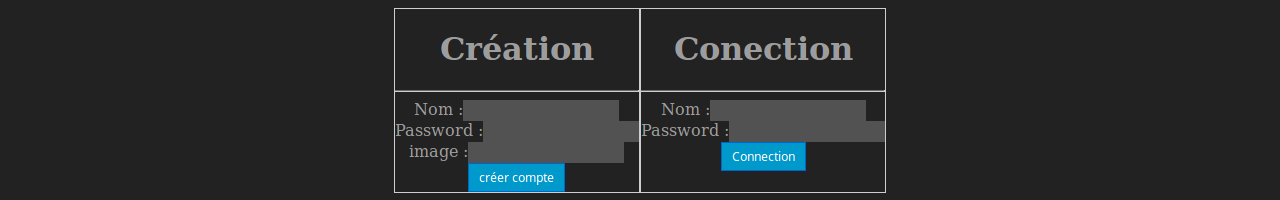
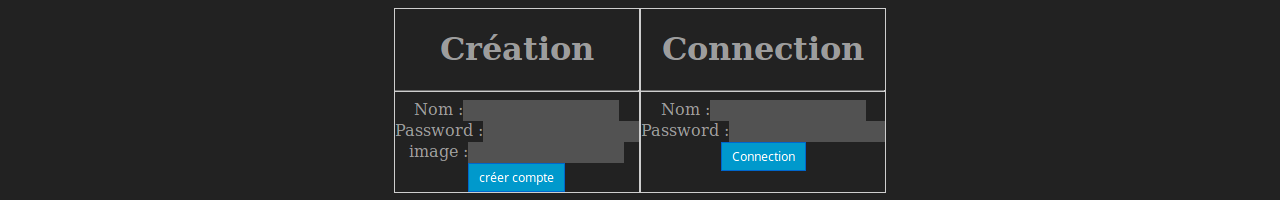
fix connection 2 nn

Changed region(s): [[0.5, 0.18, 0.6875, 0.3]]

diff --git a/src/components/connection/VueConnection.js b/src/components/connection/VueConnection.js
@@ -42,7 +42,7 @@ const VueConnection = function (props){
                     <input type="submit" value="créer compte" />
                 </form>
                 <form action="" method="post" onSubmit={ props.connection } >
-                    <h1>Conection</h1>
+                    <h1>Connection</h1>
                     <hr/>
                     <label >Nom :</label>
                     <input id="name" type="text" name="name" onInput={ props.updateUserCo }/>

diff --git a/README.MD b/README.MD
@@ -1,5 +1,5 @@
 Sujet réer par [atomrc](https://github.com/atomrc).
-## Conection
+## Connection
 ![log](./resources/img/log.png)
 
 ## Home
